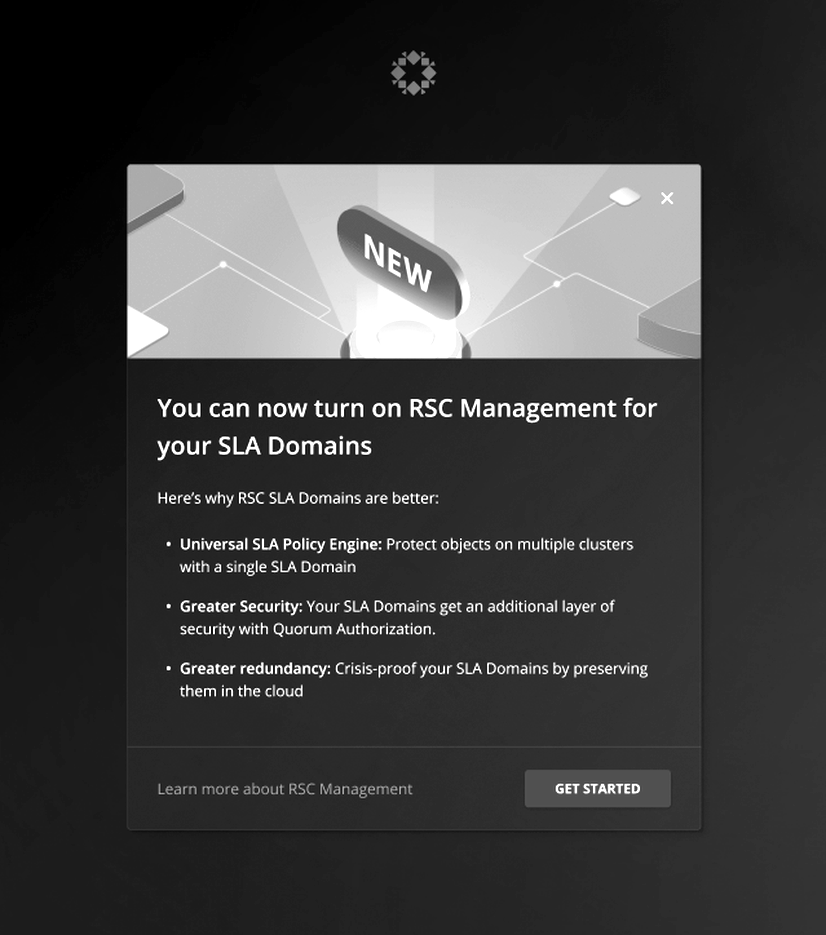
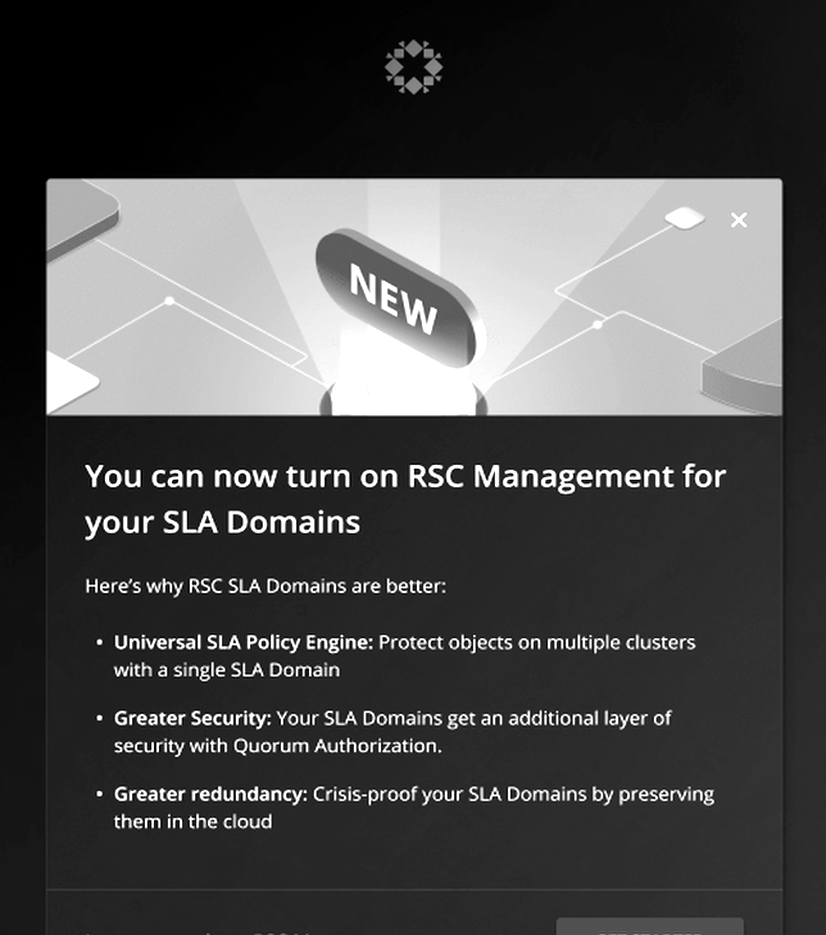
Compact iterations into a zoomed horizontal strip
Show all three explorations side by side with tighter zoom and short
labels; keep full annotations in the expand overlay to save vertical space.

diff --git a/src/pages/CaseStudy.tsx b/src/pages/CaseStudy.tsx
@@ -474,7 +474,7 @@ type IterationItem = {
   src: string;
 };
 
-/** Stacked image + annotation rows, with optional expand overlay for detail. */
+/** Compact horizontal iteration strip — expand overlay for full annotation. */
 function IterationStory({
   intro,
   items,
@@ -502,58 +502,51 @@ function IterationStory({
     };
   }, [openIndex, items.length]);
 
+  const shortTitle = (label: string) =>
+    label.replace(/^Iteration 0?\d+\s*[—–-]\s*/i, "");
+
   return (
-    <div className="flex flex-col gap-10 md:gap-14">
+    <div className="flex flex-col gap-6 md:gap-8">
       {intro && (
         <p className="max-w-[68ch] text-base leading-relaxed text-muted md:text-lg">
           {renderRichText(intro)}
         </p>
       )}
 
-      <ol className="flex flex-col gap-14 md:gap-20">
+      {/* Bleed slightly within the content column for larger thumbs */}
+      <ol className="-mx-1 grid grid-cols-1 gap-4 sm:grid-cols-3 sm:gap-3 md:-mx-2 md:gap-4 lg:-mx-3 lg:gap-5">
         {items.map((it, i) => (
-          <li
-            key={i}
-            className={`grid items-start gap-6 md:grid-cols-12 md:gap-8 ${
-              i % 2 === 1 ? "md:[&>*:first-child]:order-2" : ""
-            }`}
-          >
+          <li key={i} className="min-w-0">
             <button
               type="button"
               onClick={() => setOpenIndex(i)}
-              className="group relative col-span-1 overflow-hidden rounded-2xl border border-line bg-[#1a1c1e] text-left outline-none transition-[box-shadow,transform] duration-300 hover:-translate-y-0.5 hover:shadow-[0_18px_40px_rgba(20,24,40,0.12)] focus-visible:ring-2 focus-visible:ring-ink/30 md:col-span-7"
+              className="group flex w-full flex-col gap-3 text-left outline-none"
               aria-label={`Expand ${it.label}`}
             >
-              <img
-                src={it.src}
-                alt={it.label}
-                className="aspect-[826/935] w-full object-cover object-top grayscale transition-transform duration-500 group-hover:scale-[1.015]"
-                width={826}
-                height={935}
-              />
-              <span className="pointer-events-none absolute bottom-3 right-3 rounded-full border border-white/20 bg-black/45 px-3 py-1.5 text-[10px] font-semibold uppercase tracking-[0.14em] text-white/90 backdrop-blur-sm opacity-90 transition-opacity group-hover:opacity-100 md:opacity-0 md:group-hover:opacity-100">
-                Expand
-              </span>
+              <div className="relative overflow-hidden rounded-xl border border-line bg-[#1a1c1e] transition-[box-shadow,transform] duration-300 group-hover:-translate-y-0.5 group-hover:shadow-[0_14px_32px_rgba(20,24,40,0.12)] group-focus-visible:ring-2 group-focus-visible:ring-ink/30">
+                {/* Zoom the modal; keep a little side padding via inset scale */}
+                <div className="aspect-[4/5] overflow-hidden">
+                  <img
+                    src={it.src}
+                    alt={it.label}
+                    className="h-full w-full scale-[1.22] object-cover object-[center_12%] grayscale transition-transform duration-500 group-hover:scale-[1.26]"
+                    width={826}
+                    height={935}
+                  />
+                </div>
+                <span className="pointer-events-none absolute bottom-2.5 right-2.5 rounded-full border border-white/20 bg-black/45 px-2.5 py-1 text-[9px] font-semibold uppercase tracking-[0.14em] text-white/90 backdrop-blur-sm opacity-0 transition-opacity group-hover:opacity-100 group-focus-visible:opacity-100">
+                  Expand
+                </span>
+              </div>
+              <div className="px-0.5">
+                <p className="text-[10px] font-semibold uppercase tracking-[0.14em] text-muted-soft">
+                  {String(i + 1).padStart(2, "0")}
+                </p>
+                <p className="mt-1 text-sm font-semibold tracking-tight text-ink">
+                  {shortTitle(it.label)}
+                </p>
+              </div>
             </button>
-
-            <div className="flex flex-col gap-3 md:col-span-5 md:pt-4 lg:pt-8">
-              <p className="text-[11px] font-semibold uppercase tracking-[0.16em] text-muted-soft">
-                Iteration {String(i + 1).padStart(2, "0")}
-              </p>
-              <h3 className="font-sans text-xl font-semibold tracking-tight text-ink md:text-2xl">
-                {it.label.replace(/^Iteration 0?\d+\s*[—–-]\s*/i, "")}
-              </h3>
-              <p className="max-w-[42ch] text-base leading-relaxed text-muted md:text-[17px]">
-                {renderRichText(it.annotation)}
-              </p>
-              <button
-                type="button"
-                onClick={() => setOpenIndex(i)}
-                className="mt-2 w-fit text-sm font-medium text-ink underline decoration-line underline-offset-4 transition-colors hover:decoration-ink"
-              >
-                View larger
-              </button>
-            </div>
           </li>
         ))}
       </ol>

diff --git a/src/content.ts b/src/content.ts
@@ -711,7 +711,7 @@ const sectionBlockOverrides: Partial<Record<string, Partial<Record<string, CaseB
       {
         type: "iterations",
         intro:
-          "Before the final announcement, we explored several ways to introduce the SLA auto-migration. Early frames are shown in black and white — the color final comes next. Click any screen to inspect it larger.",
+          "Before the final announcement, we explored several ways to introduce the SLA auto-migration. Early frames are shown in black and white — click any screen to read what was missing.",
         items: [
           {
             label: "Iteration 01 — Optional opt-in",
